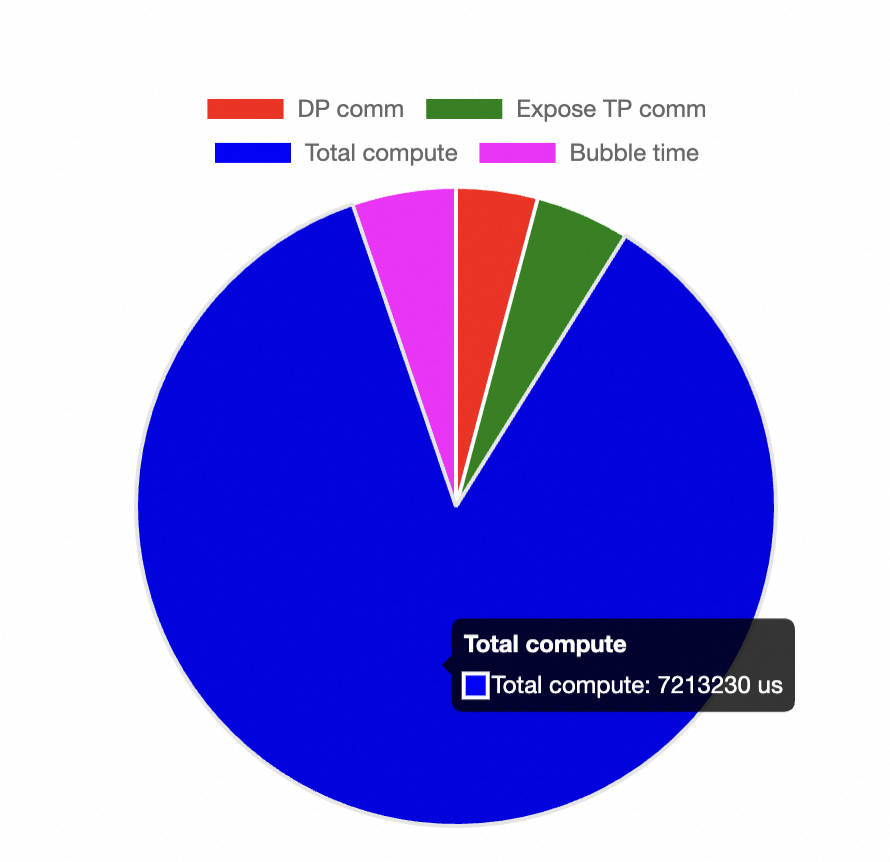
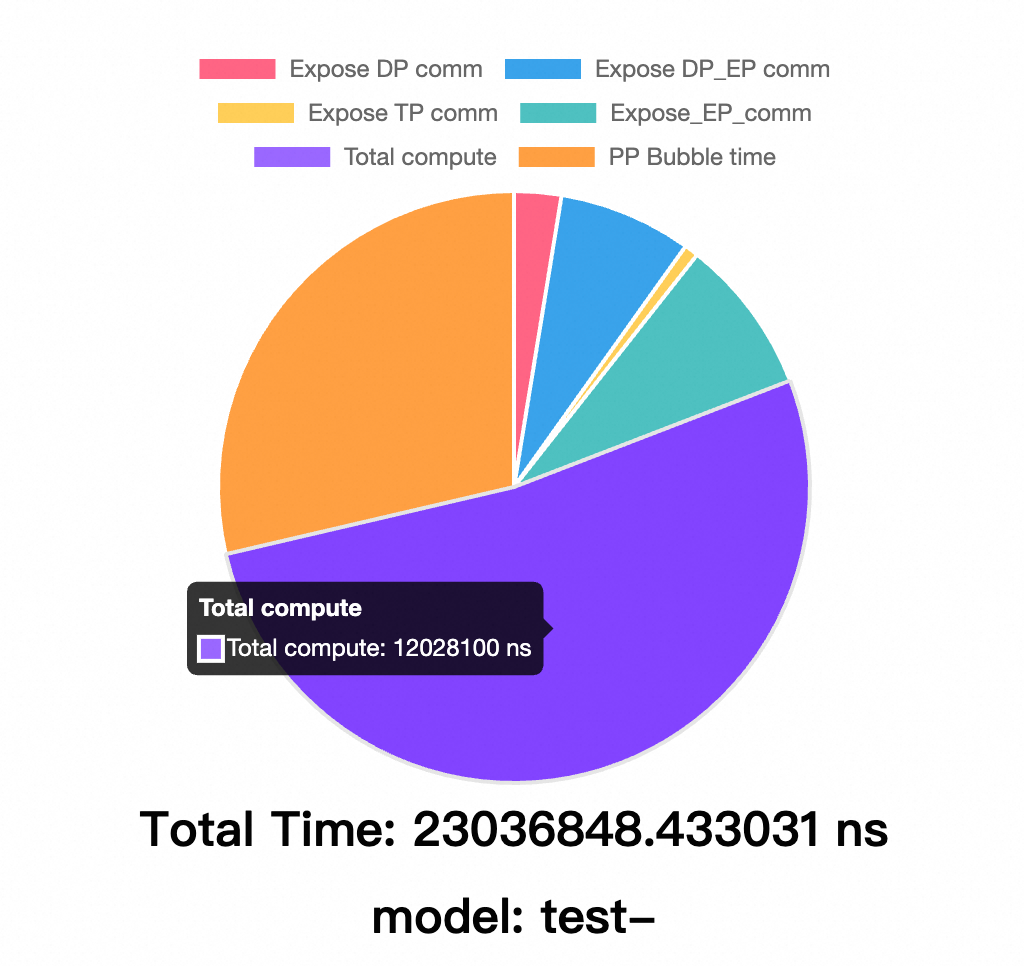
[SimAI-Analytical]Add PP comm support

diff --git a/astra-sim-alibabacloud/astra-sim/workload/Layer.cc b/astra-sim-alibabacloud/astra-sim/workload/Layer.cc
@@ -499,6 +499,7 @@ LayerData Layer::report(
   int TP_size = workload->model_parallel_npu_group;
   int PP_size = workload->pipeline_model_parallelism;
   int vpp = workload->vpp;
+  uint32_t pp_commsize = workload->pp_commsize;
   int DP_size = generator->all_gpus[0] / (TP_size * PP_size);
   int GA = workload->GA;
   int EP_size = workload->expert_parallel_npu_group;
@@ -663,10 +664,13 @@ LayerData Layer::report(
         if (param->mode != ModeType::ANALYTICAL) {
             total_exposed = (((double)Sys::boostedTick()) / FREQ ) - total_compute;
         }
-
-        int Vpp_size = vpp;
-        pre_bubble_time *= static_cast<double>(PP_size - 1) * (1 - param->net_work_param.pp_overlap_ratio)/ (GA * Vpp_size);
-        double total_time = total_compute + total_exposed + pre_bubble_time;
+        //pp commtime
+        Tick Expose_PP_time = (2 * vpp * GA * (pp_commsize * GBps / (param->net_work_param.pp) * 1e9) / FREQ );
+        Expose_PP_time *= (1-param->net_work_param.pp_overlap_ratio) ;
+        //pp bubble time
+        pre_bubble_time *= static_cast<double>(PP_size - 1) / (GA * vpp);
+        //total time
+        double total_time = total_compute + total_exposed + pre_bubble_time + Expose_PP_time;
         auto format_percentage = [&](double value) {
         double percentage = (value / total_time) * 100;
         std::ostringstream stream;
@@ -679,12 +683,13 @@ LayerData Layer::report(
       if (last_slash_pos != std::string::npos) {
           file_name = param->res.substr(last_slash_pos + 1); // 取 '/' 后面的部分
       }
-      std::string keys = "File name, Expose DP comm, Expose DP_EP comm, Expose TP comm, Expose_EP_comm, bubble time, total comp, total exposed comm, Total time";
+      std::string keys = "File name, Expose DP comm, Expose DP_EP comm, Expose TP comm, Expose_EP_comm, Expose_PP_comm, bubble time, total comp, total exposed comm, Total time";
       std::string values = file_name + ", " +
                           format_value(DP_comm) + " (" + format_percentage(DP_comm) + "), " +
                           format_value(DP_EP_comm) + " (" + format_percentage(DP_EP_comm) + "), " +
                           format_value(Expose_TP_comm) + " (" + format_percentage(Expose_TP_comm) + "), " +
                           format_value(Expose_EP_comm) + " (" + format_percentage(Expose_EP_comm) + "), " +
+                          format_value(Expose_PP_time) + " (" + format_percentage(Expose_PP_time) + "), " +
                           format_value(pre_bubble_time) + " (" + format_percentage(pre_bubble_time) + "), " +
                           format_value(total_compute) + " (" + format_percentage(total_compute) + "), " +
                           format_value(total_exposed) + " (" + format_percentage(total_exposed) + "), " +
@@ -713,14 +718,17 @@ LayerData Layer::report(
       htmlFile << "var myPieChart = new Chart(ctx, {\n";
       htmlFile << "    type: 'pie',\n";
       htmlFile << "    data: {\n";
-      htmlFile << "        labels: ['DP comm', 'Expose TP comm', 'Total compute', 'PP Bubble time'],\n";
+      htmlFile << "        labels: ['Expose DP comm', 'Expose DP_EP comm','Expose TP comm', 'Expose_EP_comm','Total compute', 'PP Bubble time', 'Expose PP comm'],\n";
       htmlFile << "        datasets: [{\n";
       htmlFile << "            data: [" 
               << DP_comm << ", " 
+              << DP_EP_comm << ", "
               << Expose_TP_comm << ", " 
+              << Expose_EP_comm << ", " 
               << total_compute << ", " 
-              << pre_bubble_time << "],\n";
-      htmlFile << "            backgroundColor: ['red', 'green', 'blue', 'magenta'],\n";
+              << pre_bubble_time << ", " 
+              << Expose_PP_time << "],\n";
+      htmlFile << "            backgroundColor: ['#FF6384', '#36A2EB', '#FFCE56', '#4BC0C0', '#9966FF', '#FF9F40','#FF5733'],\n";
       htmlFile << "        }]\n";
       htmlFile << "    },\n";
       htmlFile << "    options: {\n";

diff --git a/astra-sim-alibabacloud/astra-sim/workload/Workload.cc b/astra-sim-alibabacloud/astra-sim/workload/Workload.cc
@@ -1219,7 +1219,16 @@ bool Workload::initialize_workload(std::string name) {
   }
   std::map<std::string, std::vector<bool>> general_involved_dimensions =
       decode_involved_dimensions(parallelismPolicy, model_parallel_npu_group);
-  inFile >> lines;
+  pp_commsize = 0;
+  std::string tmp;
+  inFile >> tmp;
+  if (std::isdigit(tmp[0])) {
+    lines = std::stoi(tmp);
+  }
+  else{
+      inFile >> pp_commsize;
+      inFile >> lines;
+  }
   run_type = type;
   SIZE = lines;
   layers = new Layer*[SIZE];

diff --git a/README.md b/README.md
@@ -7,13 +7,14 @@
 
 | Date | Event | Location | Content | Type |
 |:----:|:------|:---------|:--------|:----:|
+| **Dec 6, 2024** | **HKUST Technical Workshop** | 📍 HKUST(GZ) | SimAI Technical Sharing & Discussion | 🎓 On-site |
 | **Dec 5, 2024** | [**Bench'24 Conference**](https://mp.weixin.qq.com/s/STic_E12xMhZRxhzK9wRnw) | 📍 Guangzhou | SimAI Tutorial & Deep-dive Session | 🎓 On-site |
-| **Nov 26, 2024 19:00-20:00 (UTC+8)** | SimAI Community Live Stream | 🌐 Online | Interactive Technical Discussion & Demo | 💻 Virtual |
 
 ### 🌟 Past Events
 
 | Date | Event | Location | Content | Type |
 |:----:|:------|:---------|:--------|:----:|
+| Nov 26, 2024 | SimAI Community Live Stream | 🌐 Online | Interactive Technical Discussion & Demo (400+ Attendees) | 💻 Virtual |
 | Nov 15, 2024 | Technical Workshop | 📍 Thousand Island Lake | SimAI Offline Technical Exchange | 🎯 On-site |
 | Oct 18, 2024 | Guest Lecture | 📍 Fudan University | SimAI Tutorial & Public Course | 🎓 On-site |
 | Sept 24-26, 2024 | CCF HPC China 2024 | 📍 Wuhan | SimAI Introduction & Technical Presentation | 🎤 Conference |
